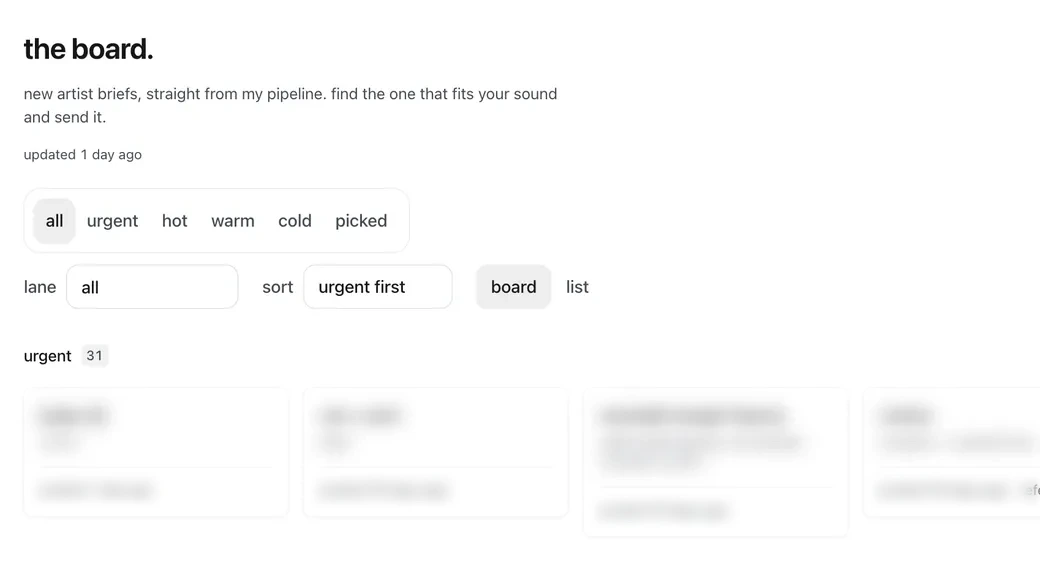
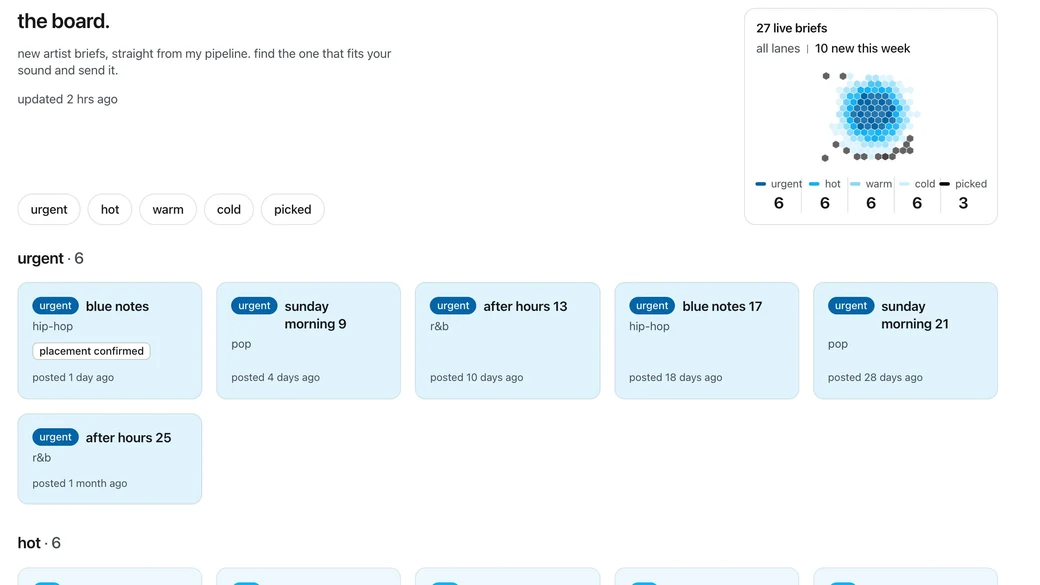
landing: portal window says click a brief to send; business is coming soon there too; workflow stills re-cropped
Claude-Session: https://claude.ai/code/session_01DVdaAJCmqKBgkAYH1UQ5Tu

diff --git a/js/l4-portal.js b/js/l4-portal.js
@@ -162,7 +162,9 @@
   // the title-bar switch sits above the stage: its centre in the capture's px (y is negative, the circle starts up in the bar)
   const barPoint = () => { const a = tgl.getBoundingClientRect(), b = stage.getBoundingClientRect(); return [(a.left + a.width / 2 - b.left) / b.width * D.W, (a.top + a.height / 2 - b.top) / b.height * D.H]; };
   const themeOrigin = () => { const P = D.pages[st.page]; if (P.full) return P.toggle && P.toggle[st.theme]; const M = D.menu && D.menu[st.theme]; return M && M.summary; };
-  const go = (p) => { if (st.hello) return; if (st.page === 'login') enter(); else if (p === 'login') show('login', st.theme, 'fade'); else if (p !== st.page) show(p, st.theme, 'fade'); };
+  // launch 6 Nov (Elaye): Business is coming soon in the live portal, so here it opens a coming-soon panel over the page instead of the old business screens
+  const soon = (on) => { const el = root.querySelector('.l4-soon'); if (!el) return; el.hidden = !on; if (on) { cueBrief(false); say.textContent = 'business: coming soon'; } };
+  const go = (p) => { if (st.hello) return; if (st.page === 'login') return enter(); if (p && p.indexOf('business') === 0) return soon(true); soon(false); if (p === 'login') show('login', st.theme, 'fade'); else if (p !== st.page) show(p, st.theme, 'fade'); };
   // ---- the title-card film in the mentorship slot: the blot, his title. One clickable video
   const playVideo = () => {
     const P = D.pages[st.page], layer = view.querySelector('.l4-screen.is-on .l4-bodyhots'); if (!P.player || !layer) return;
@@ -249,6 +251,7 @@
   if (LOG) { cue.style.setProperty('--cx', pct(LOG.r[0] + LOG.r[2] + 12, D.W)); cue.style.setProperty('--cy', pct(LOG.r[1] + LOG.r[3] / 2, D.H)); }
   if (CARD) cue.style.setProperty('--py', pct(CARD[1] + CARD[3] + 8, D.H));
   const cueBriefs = tip('l4-cue2', 'check out the briefs.', stage), hint = tip('l4-hint', 'try dark mode.', preview);
+  { const el = div('l4-soon'); el.hidden = true; el.innerHTML = '<div class="l4-soon-card"><p class="l4-soon-k">business</p><p class="l4-soon-t">coming soon.</p><p class="l4-soon-l">invoices, clients, splits and placements in one place. we\'re finishing it now.</p></div>'; stage.append(el); }
   function placeBriefsCue() {
     const P = D.pages[st.page], h = !P.full && navHots(P).find((x) => x.go === 'briefs');
     if (st.flow !== 'briefs' || st.hello) { cueBriefs.removeAttribute('data-on'); return; }
@@ -258,7 +261,20 @@
   const flowEnd = () => { clearTimeout(st.flowT); st.flow = 'done'; cueBriefs.removeAttribute('data-on'); hint.removeAttribute('data-on'); };
   const flowDark = (wait) => { clearTimeout(st.flowT); cueBriefs.removeAttribute('data-on'); if (st.flow === 'done') return; st.flow = 'dark'; if (st.darkTried || st.theme === 'dark') return flowEnd(); st.flowT = setTimeout(() => { hint.setAttribute('data-on', ''); st.flowT = setTimeout(flowEnd, 9000); }, wait); };
   const flowStart = () => { if (st.flow) return; st.flow = 'briefs'; st.flowT = setTimeout(() => { cueBriefs.dataset.live = '1'; placeBriefsCue(); const b = pills && pills.querySelector('[data-go="briefs"]'); if (b && pills.offsetParent && pills.scrollWidth > pills.clientWidth) pills.scrollTo({ left: Math.max(0, b.offsetLeft - 48), behavior: held() ? 'auto' : 'smooth' }); st.flowT = setTimeout(() => flowDark(0), 7000); }, held() ? 0 : 900); };
-  const arrive = (p) => { if (st.flow === 'briefs' && D.pages[p].nav === 'briefs') flowDark(700); else if (p === 'login' && st.flow && st.flow !== 'done') flowEnd(); };
+  // launch 6 Nov (Elaye): on the briefs page, a pop-up says to click a brief, since that is how you send a beat; it goes once a brief is opened
+  const cueB = tip('l4-cue3', "click a brief to open it. that's where you send your beat.", stage);
+  const B1 = ((D.pages.briefs || {}).body || []).find((x) => String(x.go).indexOf('brief-') === 0);
+  if (B1) { cueB.style.setProperty('--cx', pct(D.pages.briefs.x0 + B1.r[0], D.W)); cueB.style.setProperty('--cy', pct(B1.r[1], D.H)); }
+  function cueBrief(on) {
+    if (!on) { cueB.removeAttribute('data-on'); return; }
+    if (st.briefOpened || !B1) return; cueB.setAttribute('data-on', '');
+    const sc = view.querySelector('.l4-screen.is-on .l4-scroll'); if (sc) sc.addEventListener('scroll', () => { if (sc.scrollTop > 24) cueB.removeAttribute('data-on'); }, { passive: true });
+  }
+  const arrive = (p) => {
+    if (p.indexOf('brief-') === 0) st.briefOpened = true;
+    cueBrief(p === 'briefs');
+    if (st.flow === 'briefs' && D.pages[p].nav === 'briefs') flowDark(st.briefOpened ? 700 : 6000); else if (p === 'login' && st.flow && st.flow !== 'done') flowEnd();
+  };
   tgl.addEventListener('click', () => { touch(); if (st.flipping) return; st.darkTried = true; if (st.flow === 'dark') flowEnd(); show(st.page, other(), 'reveal', barPoint()); });   // a click during a flip is ignored, as in the portal
   // ---- first sign-in: the portal's own hello splash, then the streamers, home's text and blots
   let engineP = null;

diff --git a/css/l4-portal.css b/css/l4-portal.css
@@ -177,3 +177,17 @@ html[data-landing-layout] .hero-computer .portal-preview[data-l4-theme="dark"] {
 }
 html[data-motion-paused] .l4-tip, html[data-motion-paused] .l4-bh { transition:none; }
 @media (forced-colors:active) { .l4-tip { border:1px solid CanvasText; } .l4-theme:focus-visible { outline-color:Highlight; } }
+
+/* launch 6 Nov (Elaye): the briefs pop-up (click a brief to send) and Business as coming soon */
+.l4-cue3 { left:var(--cx); top:var(--cy); translate:0 calc(-100% - 10px); max-width:280px; }
+.l4-cue3::after { left:18px; bottom:-4px; }
+.l4-soon { position:absolute; inset:0 0 0 20%; z-index:4; display:grid; place-items:center; background:#fff; }
+.l4-soon[hidden] { display:none; }
+.l4-stage[data-theme="dark"] .l4-soon { background:#000; }
+.l4-soon-card { max-width:62%; padding:28px 32px; border-radius:14px; box-shadow:inset 0 0 0 1px rgba(21,21,23,.1); color:#151517; text-align:left; }
+.l4-stage[data-theme="dark"] .l4-soon-card { box-shadow:inset 0 0 0 1px rgba(255,255,255,.12); color:#f4f4f6; }
+.l4-soon-k { margin:0 0 6px; font-size:12px; color:#5d646c; }
+.l4-stage[data-theme="dark"] .l4-soon-k, .l4-stage[data-theme="dark"] .l4-soon-l { color:#a1a1aa; }
+.l4-soon-t { margin:0; font-size:22px; font-weight:600; letter-spacing:-.01em; }
+.l4-soon-l { margin:8px 0 0; font-size:14px; line-height:1.4; color:#5d646c; }
+@media (max-width:700px) { .l4-soon-card { max-width:88%; padding:14px 16px; } .l4-soon-t { font-size:16px; } .l4-soon-l { font-size:12px; } .l4-cue3 { max-width:200px; } }
